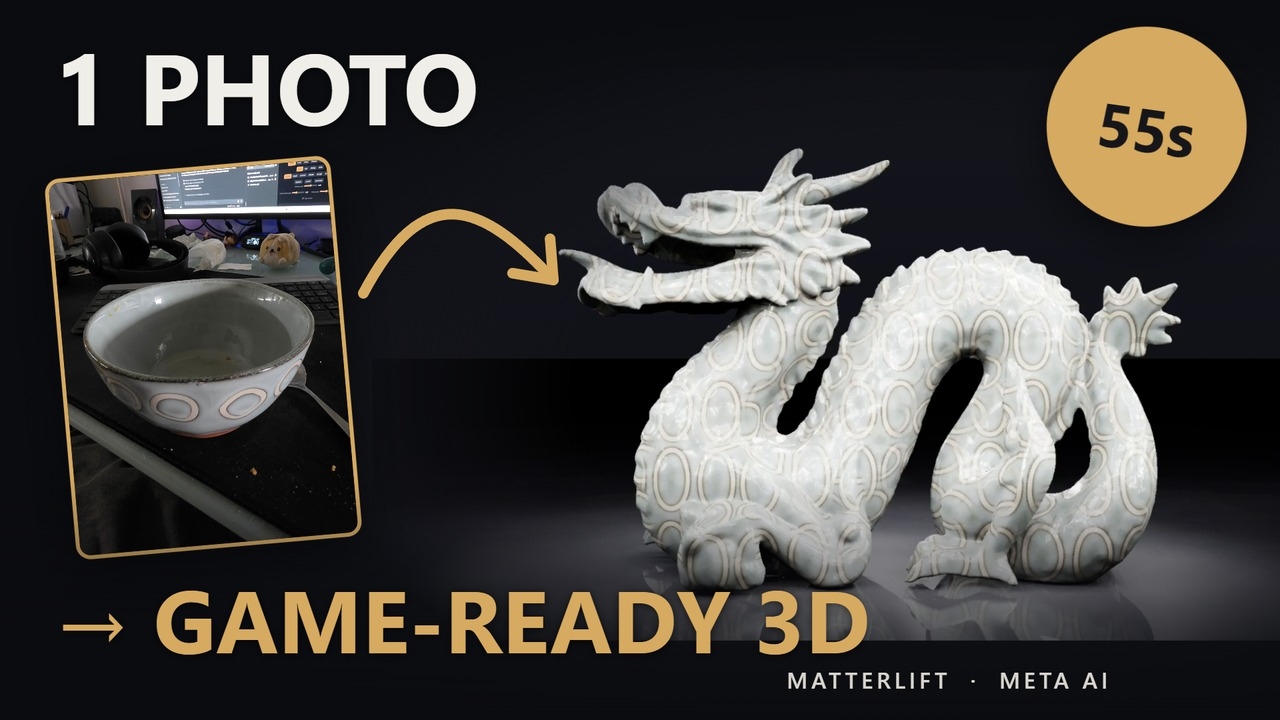
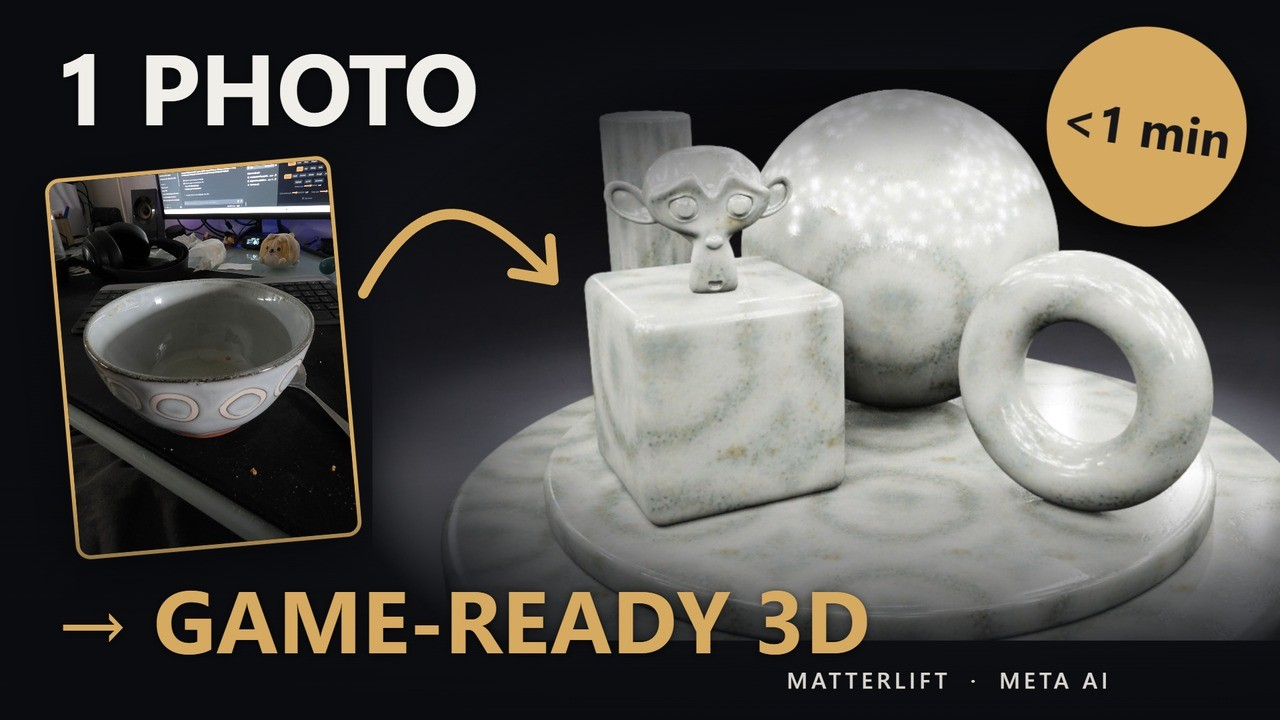
README: the new demo video (live Meta calls, the Study scene) and its thumbnail

diff --git a/README.md b/README.md
@@ -12,7 +12,7 @@
 
 <p align="center">
   <a href="https://matterlift.vercel.app"><img alt="Open the live demo" src="https://img.shields.io/badge/%E2%96%B6%20%20Live%20demo-open%20MatterLift-d6aa60?style=for-the-badge&labelColor=16171c"></a>
-  <a href="https://youtu.be/lK5YGg_GBmg"><img alt="Watch the 3-minute video" src="https://img.shields.io/badge/%E2%96%B6%20%20Video-3%20min-ff0033?style=for-the-badge&labelColor=16171c"></a>
+  <a href="https://youtu.be/-MqR3USLmUE"><img alt="Watch the 3-minute video" src="https://img.shields.io/badge/%E2%96%B6%20%20Video-3%20min-ff0033?style=for-the-badge&labelColor=16171c"></a>
   <a href="#60-second-judge-path"><img alt="60-second judge path" src="https://img.shields.io/badge/60%20s-judge%20path-2b2d35?style=for-the-badge&labelColor=16171c"></a>
   <a href="#how-each-meta-model-works-in-matterlift"><img alt="How each Meta model works" src="https://img.shields.io/badge/4%20Meta%20models-how%20each%20works-0866ff?style=for-the-badge&labelColor=16171c"></a>
   <a href="#gallery"><img alt="Gallery" src="https://img.shields.io/badge/Gallery-6%20prompts%20%C2%B7%206%20photos-2b2d35?style=for-the-badge&labelColor=16171c"></a>
@@ -34,15 +34,15 @@
   <a href="#how-it-works">How it works</a> ·
   <a href="#tests-and-benchmarks">Tests</a> ·
   <a href="#run-it">Run it</a> ·
-  <b><a href="https://youtu.be/lK5YGg_GBmg">Video</a></b>
+  <b><a href="https://youtu.be/-MqR3USLmUE">Video</a></b>
 </p>
 
 <br>
 
 <p align="center">
-  <a href="https://youtu.be/lK5YGg_GBmg"><img src="docs/img/video_thumbnail.jpg" alt="Watch the 3-minute demo on YouTube: one photo of a bowl becomes a game-ready 3D material in under a minute" width="720"></a>
+  <a href="https://youtu.be/-MqR3USLmUE"><img src="docs/img/video_thumbnail.jpg" alt="Watch the 3-minute demo on YouTube: one photo of a bowl becomes a game-ready 3D material in under a minute" width="720"></a>
   <br>
-  <sub>▶ <a href="https://youtu.be/lK5YGg_GBmg"><b>Watch the 3-minute demo</b></a>: one photo of a bowl, a game-ready material in under a minute, every Meta call live on screen.</sub>
+  <sub>▶ <a href="https://youtu.be/-MqR3USLmUE"><b>Watch the 3-minute demo</b></a>: one photo of a bowl, a game-ready material in under a minute, every Meta call live on screen.</sub>
 </p>
 
 <br>
@@ -56,7 +56,7 @@ SAM 3.1, Muse Voice Transcribe).
 
 <table>
   <tr>
-    <td width="50%" align="center"><a href="https://youtu.be/lK5YGg_GBmg"><img src="docs/img/videos/demo.jpg" alt="Watch the 3-minute demo: one photo of a bowl becomes a game-ready material" width="100%"></a><br><b>The 3-minute demo</b><br><sub>A photo of a bowl, every step on screen</sub></td>
+    <td width="50%" align="center"><a href="https://youtu.be/-MqR3USLmUE"><img src="docs/img/videos/demo.jpg" alt="Watch the 3-minute demo: one photo of a bowl becomes a game-ready material" width="100%"></a><br><b>The 3-minute demo</b><br><sub>A photo of a bowl, every step on screen</sub></td>
     <td width="50%" align="center"><a href="https://youtu.be/BPpDhytLlfs"><img src="docs/img/videos/diamond.jpg" alt="Watch a diamond being generated from two words" width="100%"></a><br><b>A diamond, from two words</b><br><sub>Spark sets transmission and IOR 2.4</sub></td>
   </tr>
   <tr>
